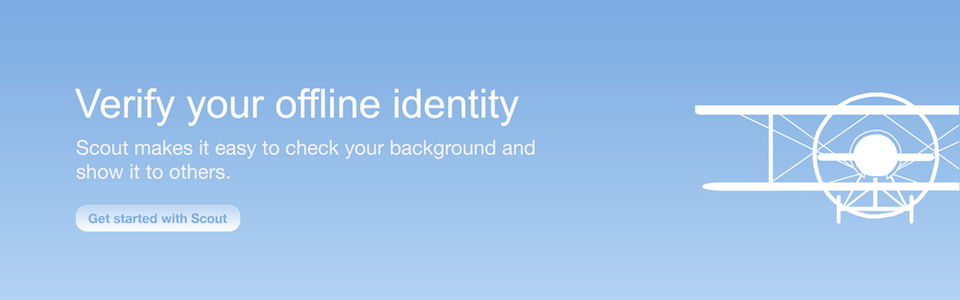
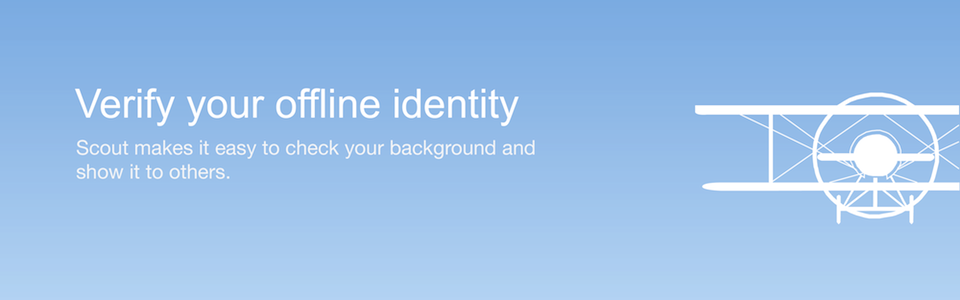
latest

Changed region(s): [[0.0625, 0.66, 0.25, 0.78]]

diff --git a/app/assets/stylesheets/main.css b/app/assets/stylesheets/main.css
@@ -18,14 +18,15 @@ white-space: normal;}
     width: 90px;}
 
 div#header h1 a {
-	    background: url("images/logo2.png") no-repeat scroll 0 0 transparent;
+	    background: url("logo2.png") no-repeat scroll 0 0 transparent;
 	    display: block;
 	    height: 28px; width:100px;
 	    transition: opacity 200ms ease 0s, transform 0s ease 0s;
 	}
 
 div.navigation {padding-top: 24px;
-	    position: relative;}
+	    position: relative;
+	}
 
 div.signin {float: right;
     display: block;
@@ -36,11 +37,13 @@ div.signin {float: right;
     padding-top: 19px}
 
 div#getstarted {margin-top: 10px;
-		background: url("images/banner2.png") repeat scroll 0 0 #84BBE5;
+		background: url("banner2.png") repeat scroll 0 0 #84BBE5;
 	    border-radius: 4px 4px 4px 4px;
 	    height: 300px;
 	    overflow: hidden;
 	    position: relative;}
+	
+#gsbutton{margin-left:75px; margin-top:210px}
 	
 div.box {margin-top: 40px;
 	    margin-left: auto; 
